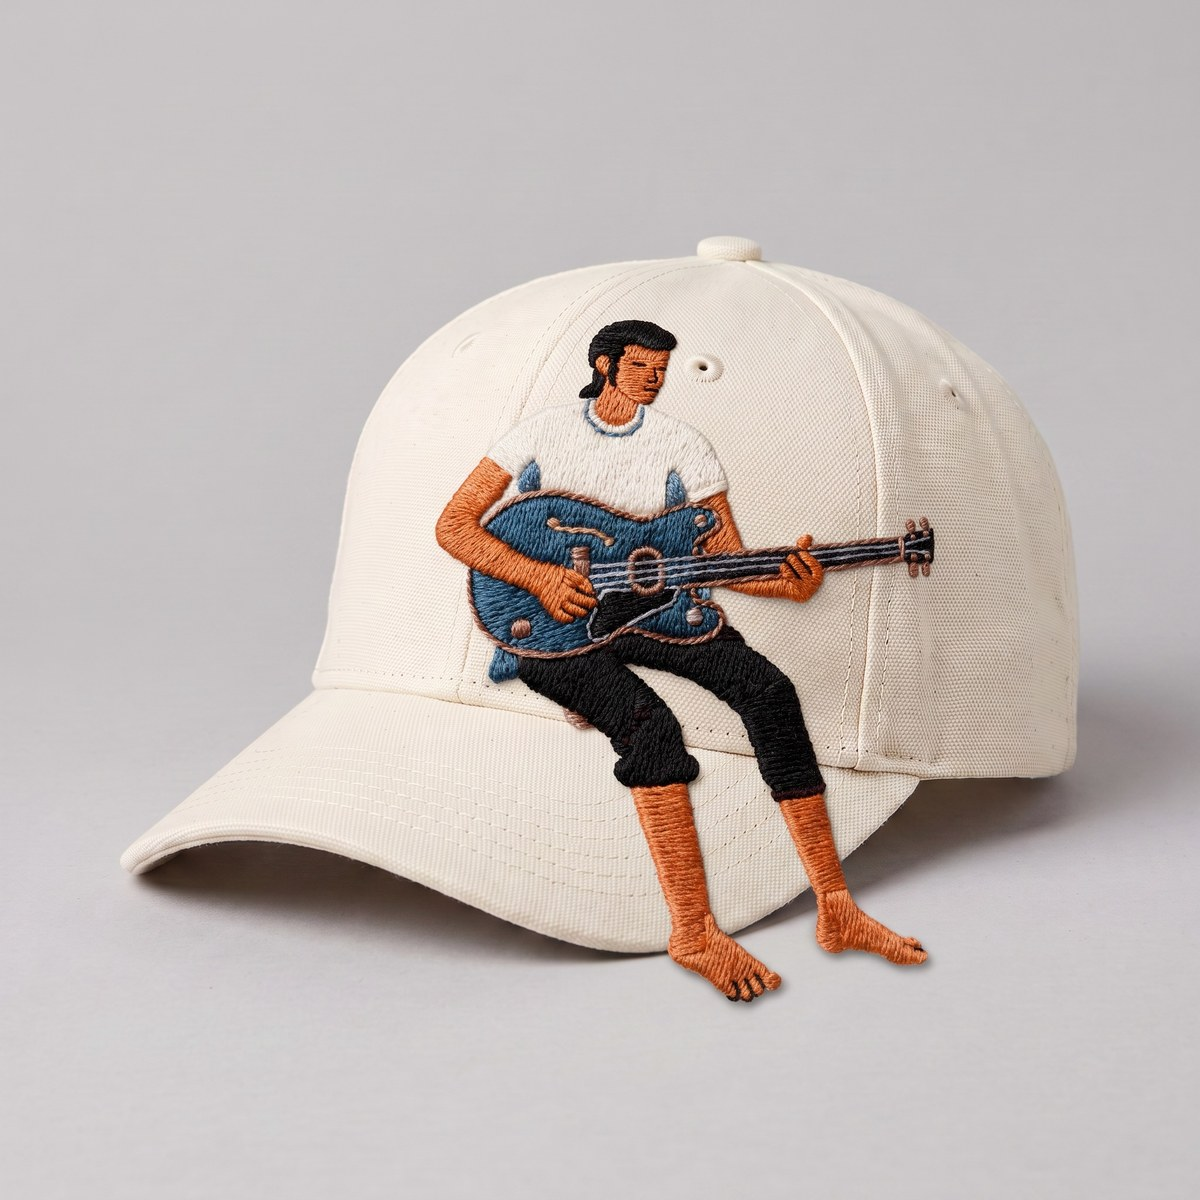
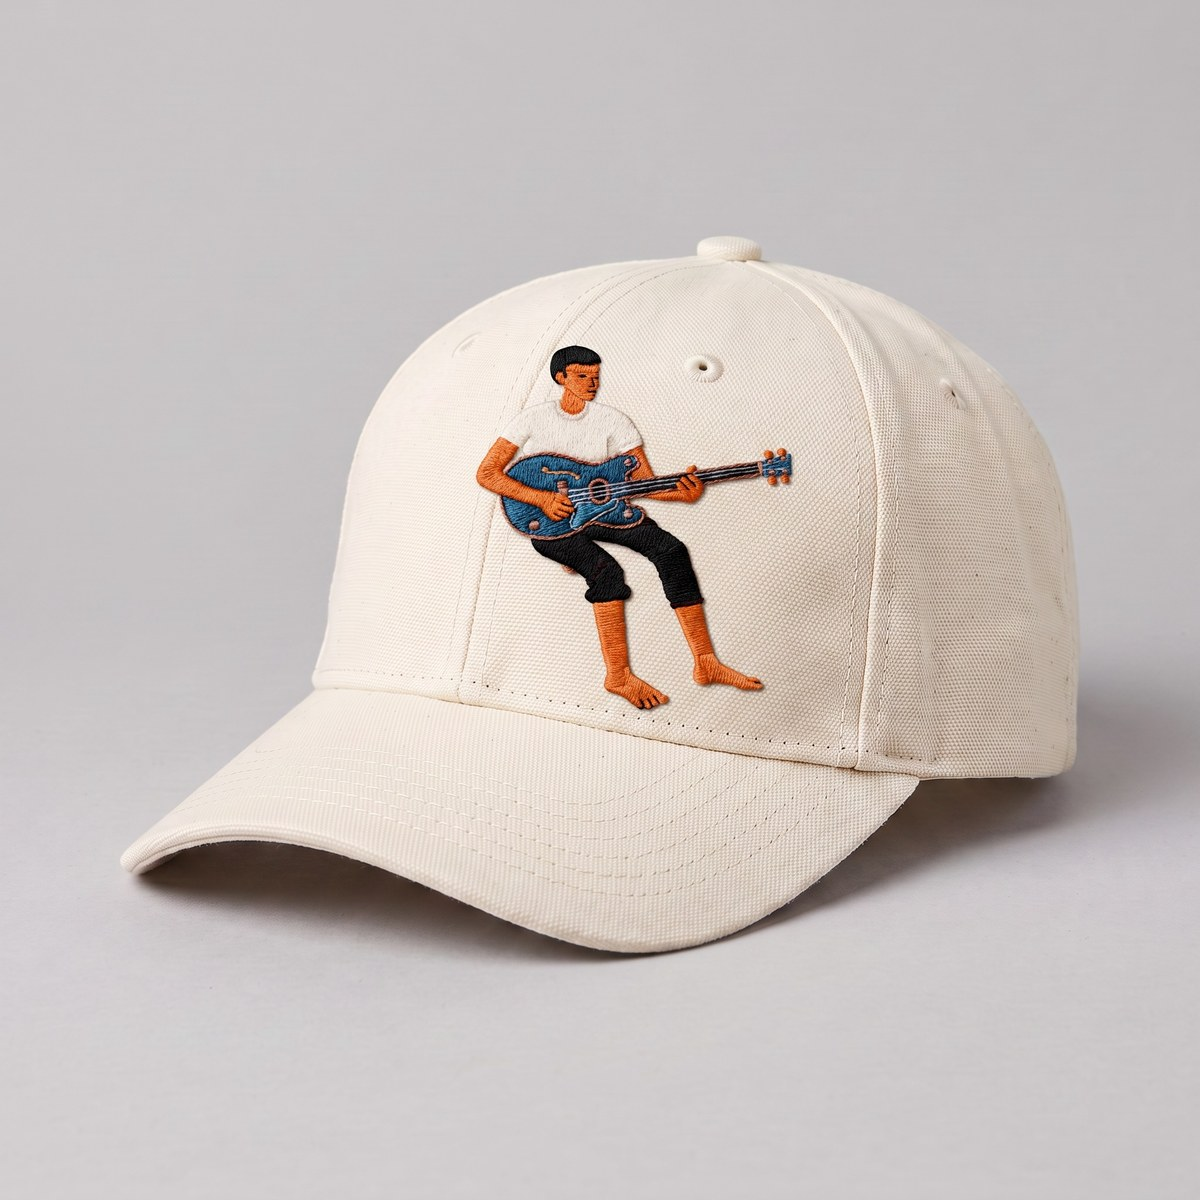
Shop: finished embroidered caps (guitarist fixed, tiger 4 legs, new Doves cap)

Changed region(s): [[0.3392, 0.2467, 0.8325, 0.8633], [0.8325, 0.4933, 0.8633, 0.5242], [0.8017, 0.555, 0.8325, 0.5858]]

diff --git a/index.html b/index.html
@@ -191,6 +191,11 @@
           <a class="btn-primary" href="#contact">Pre-order</a>
         </article>
         <article class="shop-card">
+          <img src="images/shop/cap-doves.jpg" alt="Embroidered cap — Yoav &amp; the doves" loading="lazy" />
+          <div class="shop-meta"><h3>Doves Cap</h3><p>Embroidered · natural</p><span class="price">₪129</span></div>
+          <a class="btn-primary" href="#contact">Pre-order</a>
+        </article>
+        <article class="shop-card">
           <img src="images/shop/poster-boat.jpg" alt="PARDES boat scene art poster" loading="lazy" />
           <div class="shop-meta"><h3>Boat Poster</h3><p>Giclée art print</p><span class="price">₪99</span></div>
           <a class="btn-primary" href="#contact">Pre-order</a>
